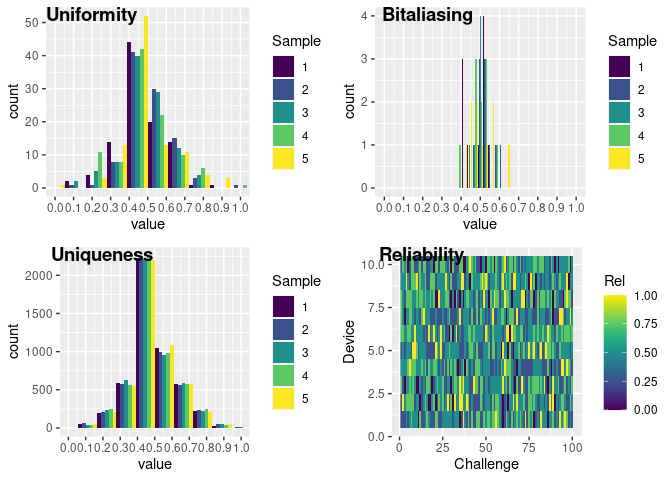
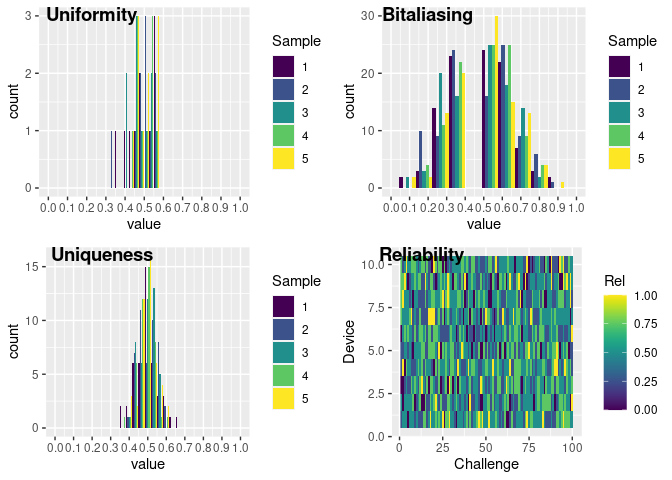
refactor: renamed arguments of metrics due to S3 methods chore: add dependencies to NAMESPACE fix(dim.pufmetrics): return the correct metrics dimensions
This reverts commit 8c34b4025b159535caf198b5a74729682690f027.

There was no need to transpose the matrix in the intra_hd function, since
the bug came from the rbits function, that needed to flip the x, y coordinates
due to the use of the aperm function.

diff --git a/README.md b/README.md
@@ -50,14 +50,14 @@ v1 <- rbits(50)
 v2 <- rbits(50)
 
 hamming_dist(v1, v2)
-#> [1] 21
+#> [1] 19
 # Or alternatively
 v1 %HD% v2
-#> [1] 21
+#> [1] 19
 
 # Shannon entropy for bit vectors
 entropy_bits(v1)
-#> [1] 0.9814539
+#> [1] 0.9895875
 ```
 
 ## Metrics
@@ -71,28 +71,23 @@ using their respective functions.
 crps <- rbits(c(5, 10))
 
 uniformity(crps)
-#> [1] 0.3 0.6 0.5 0.1 0.3
+#> [1] 0.5 0.5 0.4 0.6 0.4
 bitaliasing(crps)
-#>  [1] 0.6 0.2 0.4 0.2 0.2 0.2 0.2 0.4 0.6 0.6
+#>  [1] 0.4 0.6 0.8 0.6 0.4 0.4 0.2 0.6 0.2 0.6
 uniqueness(crps)
-#>  [1] 0.5 0.6 0.6 0.4 0.5 0.5 0.3 0.4 0.6 0.6
+#>  [1] 0.6 0.3 0.5 0.1 0.5 0.7 0.5 0.2 0.8 0.4
 
 # For a 2D matrix, each column contains a sample
 # In a 3D matrix, the 3rd dimension represents the samples
 # 5 samples of 5 devices with 10 challenges each
 crps <- rbits(c(5, 10, 5))
 reliability(crps)
-#>       [,1] [,2] [,3] [,4] [,5]
-#>  [1,] 0.50 0.25 0.50 0.50 0.50
-#>  [2,] 0.75 0.50 0.50 0.50 0.25
-#>  [3,] 0.50 0.25 0.50 0.25 0.50
-#>  [4,] 1.00 0.50 0.50 0.25 0.25
-#>  [5,] 0.50 0.00 0.25 1.00 0.25
-#>  [6,] 0.50 0.50 0.50 0.75 0.50
-#>  [7,] 0.50 0.50 1.00 0.25 0.50
-#>  [8,] 0.75 0.25 0.50 0.25 0.50
-#>  [9,] 0.50 0.50 0.25 0.25 0.75
-#> [10,] 0.50 0.50 0.50 0.75 0.25
+#>      [,1] [,2] [,3] [,4] [,5] [,6] [,7] [,8] [,9] [,10]
+#> [1,] 1.00 0.75 0.25 0.75 0.25 0.25 0.25 0.75 0.00  0.50
+#> [2,] 0.75 0.75 0.25 0.50 1.00 0.50 0.50 0.75 0.25  0.25
+#> [3,] 0.50 0.75 0.25 0.75 1.00 0.25 0.50 0.50 1.00  0.75
+#> [4,] 0.25 0.50 0.25 0.75 0.25 0.50 0.50 0.50 0.75  0.25
+#> [5,] 0.50 0.50 0.50 0.25 0.25 0.50 0.75 0.25 0.50  0.25
 ```
 
 All the metrics can be calculated at once by using the `metrics`
